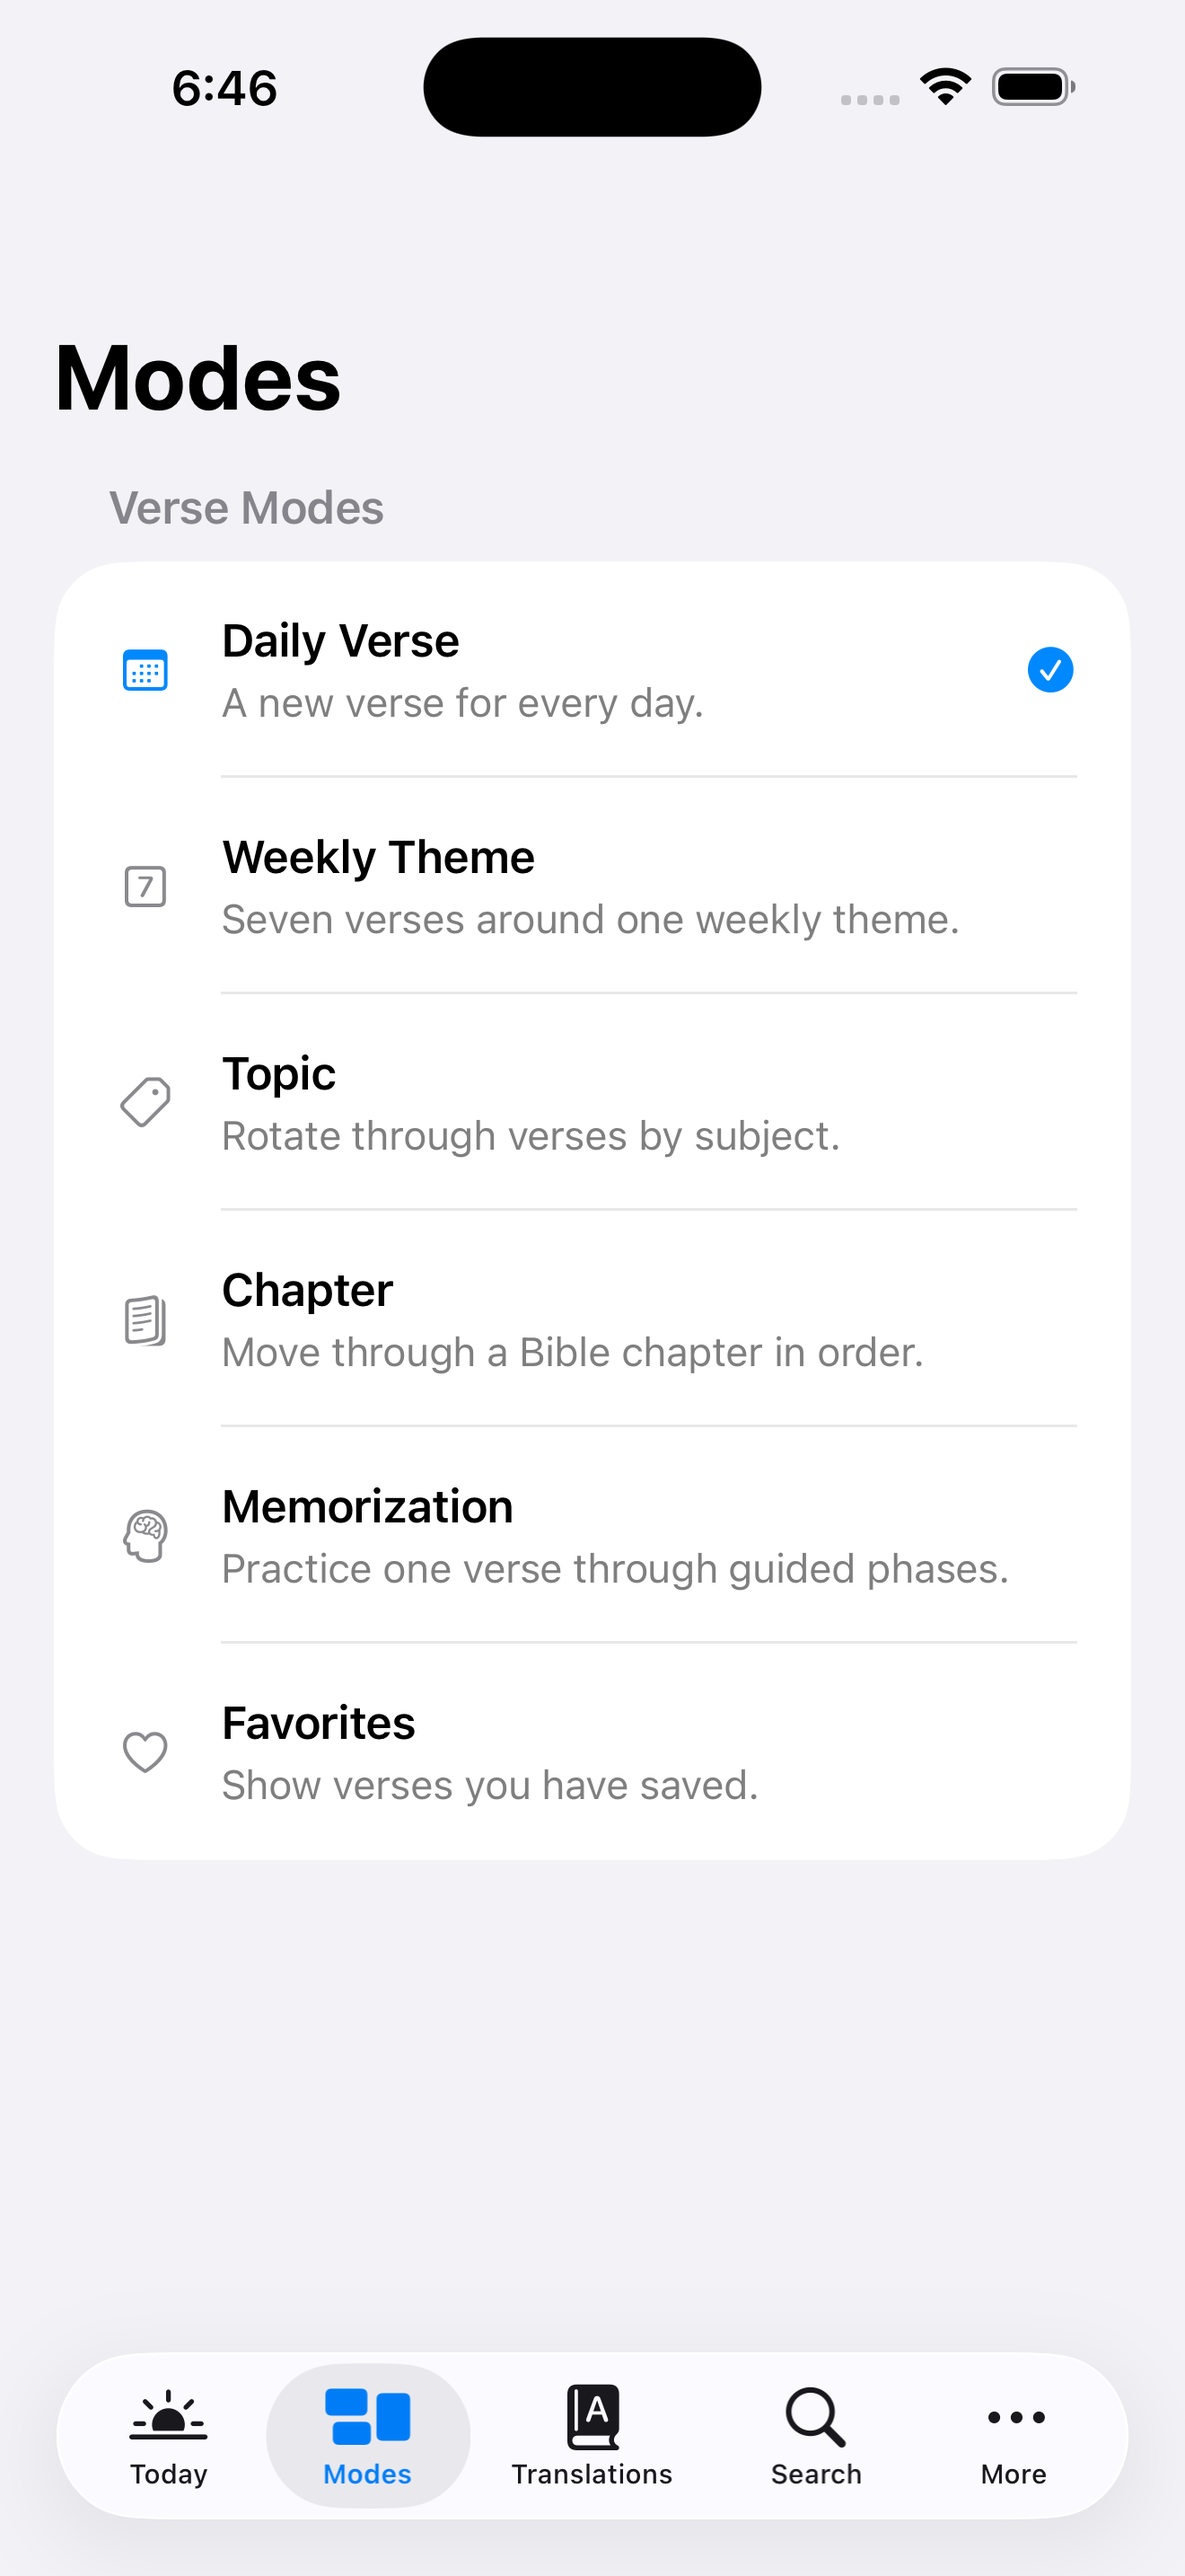
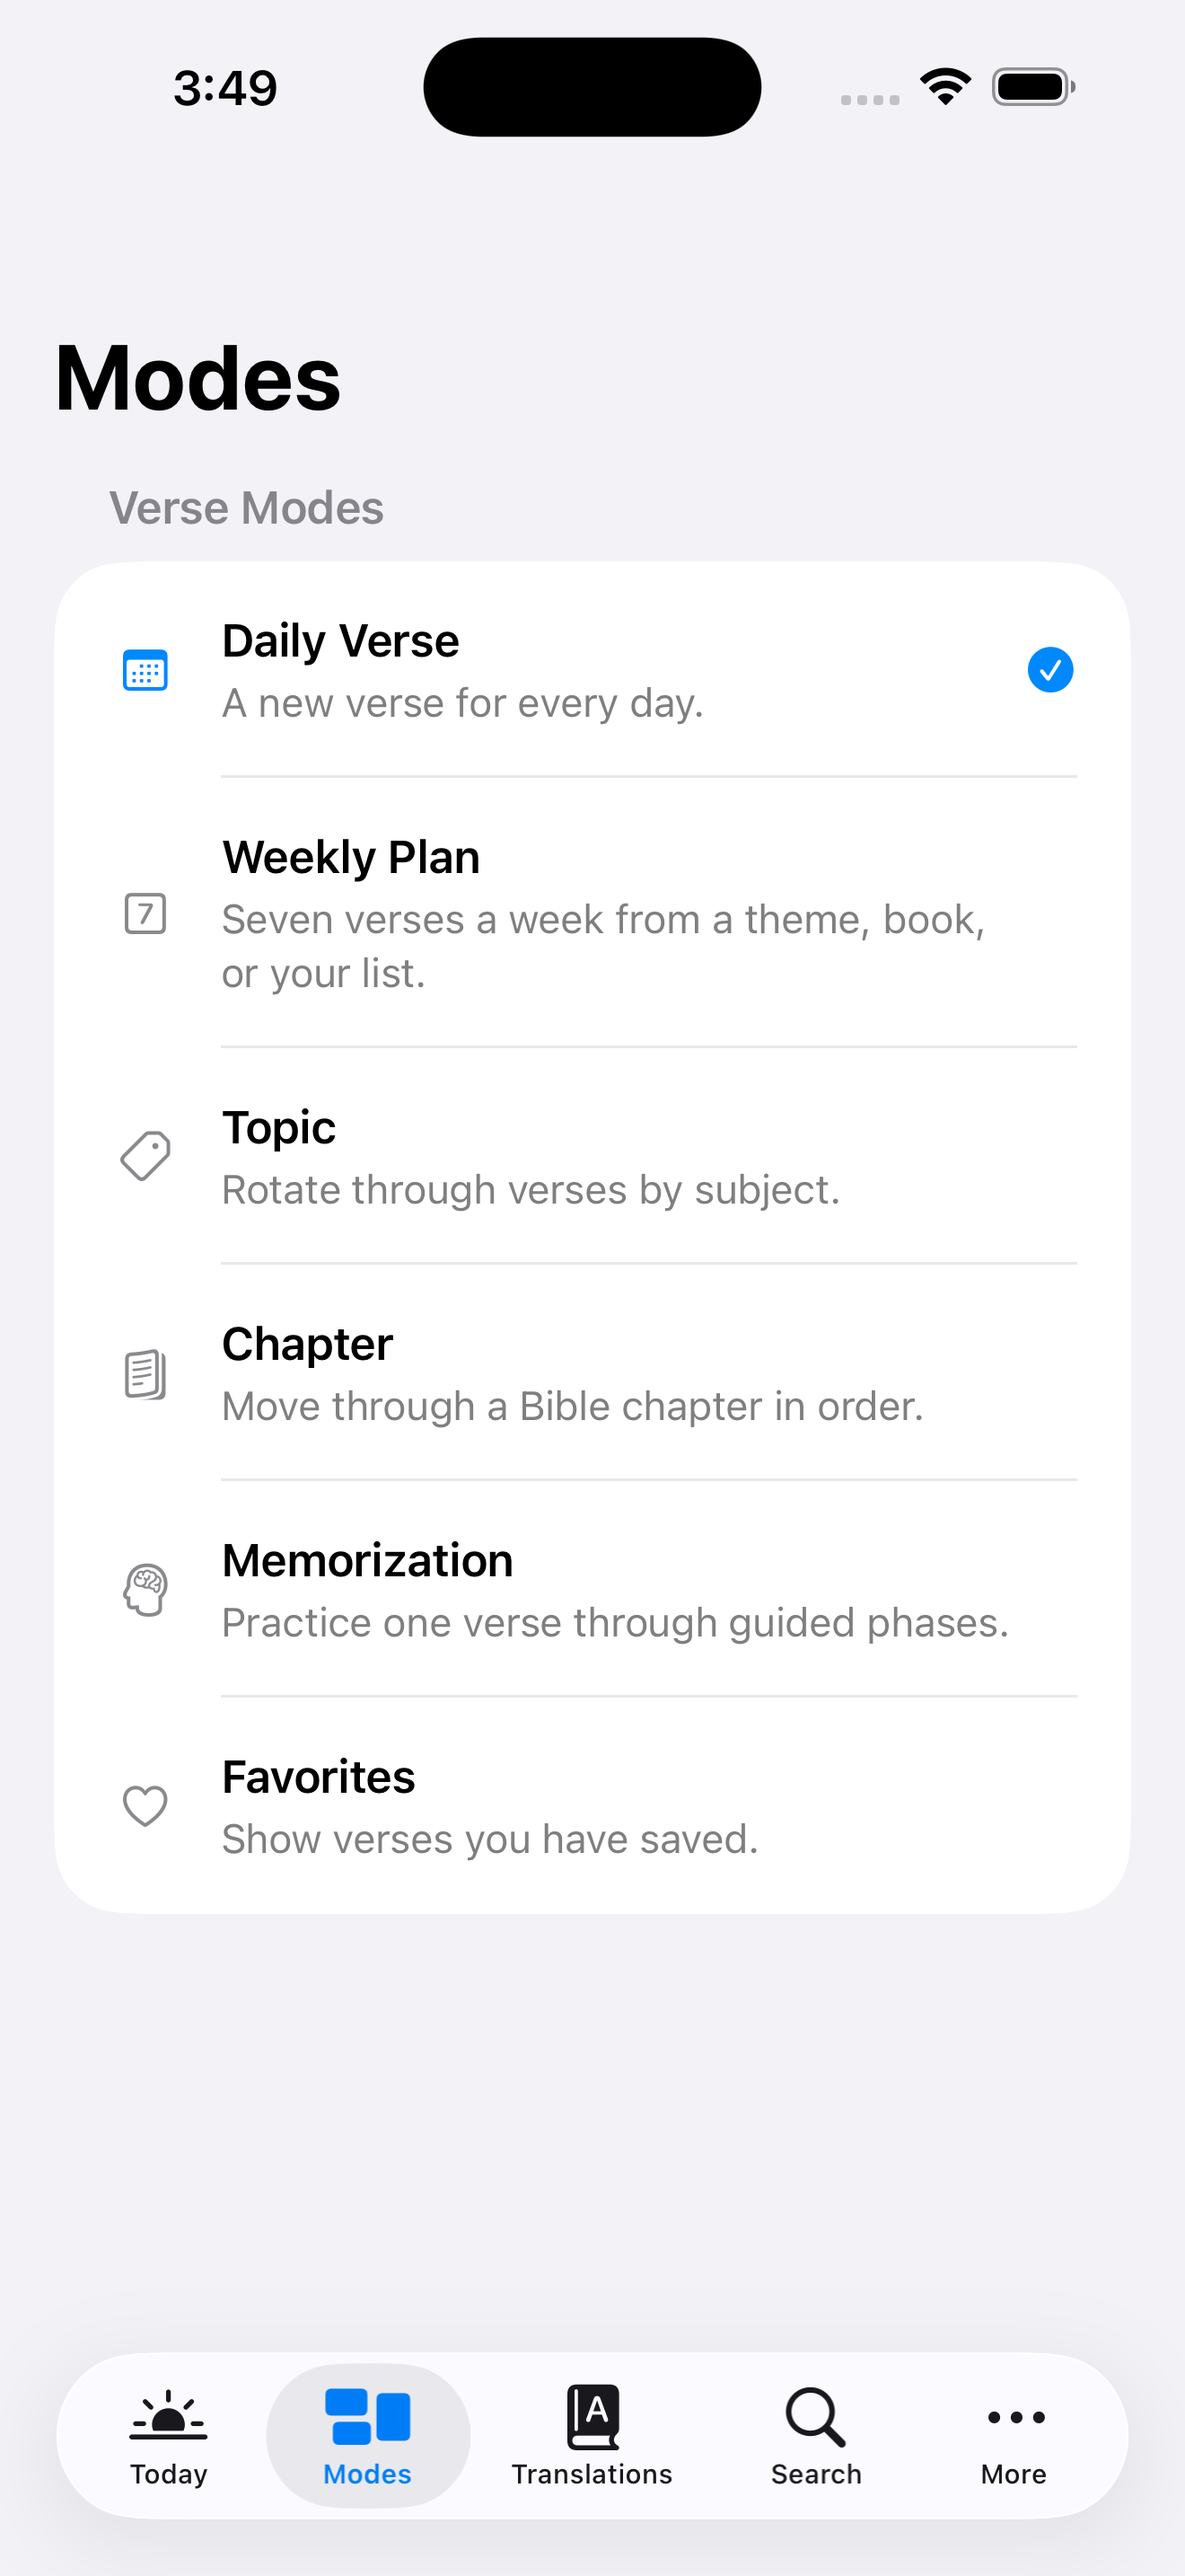
docs: describe ESV and Recovery Version storage and Weekly Plan
The privacy policy (dated September 14, 2026), the support and home pages, and
the listing now say ESV keeps up to 500 downloaded verses and downloads at most
every 48 hours, the Recovery Version is never stored, and Weekly Theme is now
Weekly Plan. Retook the 6.9-inch screenshots that showed the old mode name and
Recovery Version label.

diff --git a/docs/support.html b/docs/support.html
@@ -153,10 +153,11 @@
     <h1>Support</h1>
     <p class="intro">
       Word Unlocked puts a Bible verse on your iPhone Lock Screen. Pick a mode &mdash;
-      Daily Verse, Weekly Theme, Topic, Chapter, Memorization, or Favorites &mdash; and a
+      Daily Verse, Weekly Plan, Topic, Chapter, Memorization, or Favorites &mdash; and a
       translation, and the widget keeps your Lock Screen updated with scripture. Five
       translations (KJV, WEB, BSB, ASV, LSV) work fully offline; the English Standard
-      Version and the Recovery Version fetch live and then cache on your device.
+      Version downloads the verses you&rsquo;ll see next, and the Recovery Version loads
+      while you read.
     </p>
 
     <section>
@@ -169,17 +170,17 @@
 
       <details>
         <summary>Why isn't my verse updating?</summary>
-        <p>iOS manages exactly when widgets refresh to save battery, so updates aren't always instant. First check Settings in the app to confirm you're in the mode and translation you expect &mdash; modes like Daily Verse, Topic, and Chapter each have their own update or rotation interval. If the English Standard Version or the Recovery Version is selected, a new verse also requires a network connection the first time it&rsquo;s fetched.</p>
+        <p>iOS manages exactly when widgets refresh to save battery, so updates aren't always instant. First check Settings in the app to confirm you're in the mode and translation you expect &mdash; modes like Daily Verse, Topic, and Chapter each have their own update or rotation interval. If the English Standard Version is selected, new verses download at most once every 48 hours, and a verse that hasn&rsquo;t downloaded yet shows in the King James Version. The Recovery Version can&rsquo;t be stored on your device, so while it&rsquo;s selected the widget shows the King James Version.</p>
       </details>
 
       <details>
         <summary>How do I switch translations?</summary>
-        <p>Open the app and go to Settings, then use the Default Translation picker (or the Translations tab to browse all available translations). KJV, WEB, BSB, ASV, and LSV are available immediately since they're bundled offline. Selecting the English Standard Version or the Recovery Version fetches that verse live the first time, then caches it locally.</p>
+        <p>Open the app and go to Settings, then use the Default Translation picker (or the Translations tab to browse all available translations). KJV, WEB, BSB, ASV, and LSV are available immediately since they're bundled offline. Selecting the English Standard Version downloads the verses your mode shows next; the Recovery Version loads each verse while you read.</p>
       </details>
 
       <details>
         <summary>How does offline mode work?</summary>
-        <p>King James Version, World English Bible, Berean Standard Bible, American Standard Version, and Literal Standard Version are bundled inside the app itself, so no network request is ever made when one of them is selected. The English Standard Version and the Recovery Version are the only translations that need a connection, and only at the moment you select one or move to a verse that isn&rsquo;t already cached.</p>
+        <p>King James Version, World English Bible, Berean Standard Bible, American Standard Version, and Literal Standard Version are bundled inside the app itself, so no network request is ever made when one of them is selected. The English Standard Version keeps up to 500 downloaded verses on your device and needs a connection only to download more, at most once every 48 hours. The Recovery Version needs a connection whenever you read it, because its text is never stored on your device.</p>
       </details>
     </section>
 

diff --git a/docs/privacy.html b/docs/privacy.html
@@ -147,7 +147,7 @@
 <main>
   <div class="wrap">
     <h1>Privacy Policy</h1>
-    <p class="updated">Last updated: September 12, 2026</p>
+    <p class="updated">Last updated: September 14, 2026</p>
 
     <div class="summary">
       <p>Word Unlocked at a glance:</p>
@@ -177,15 +177,15 @@
       <p>King James Version (KJV), World English Bible (WEB), Berean Standard Bible (BSB), American Standard Version (ASV), and Literal Standard Version (LSV) are bundled with the app and stored entirely on your device. No network request is ever made when one of these translations is selected.</p>
 
       <h3>English Standard Version (ESV)</h3>
-      <p>When the English Standard Version is selected, verses are fetched live from <code>api.esv.org</code>, operated by Crossway, as you read. Up to 500 recently viewed verses are cached locally on your device so they stay available offline &mdash; nothing is sent to any server operated by this app.</p>
+      <p>When the English Standard Version is selected, the app downloads the verses your chosen mode will show next from <code>api.esv.org</code>, operated by Crossway, at most once every 48 hours. Up to 500 of them are kept on your device so the Lock Screen widget works offline; Crossway's terms allow no more than that, or half of any book. Requests contain only verse references &mdash; nothing is sent to any server operated by this app.</p>
 
       <h3>Recovery Version (RV)</h3>
-      <p>When the Recovery Version is selected, a live request is made to <code>api.lsm.org</code>, operated by Living Stream Ministry, to fetch the current verse. Only the single most recently fetched verse is cached, locally on your device &mdash; nothing is sent to any server operated by this app.</p>
+      <p>When the Recovery Version is selected, the verse you are reading is requested from <code>api.lsm.org</code>, operated by Living Stream Ministry. Its text is held in memory while you read and is never stored on your device, as Living Stream Ministry's terms require, so the Lock Screen widget shows the King James Version instead. Requests contain only the verse reference &mdash; nothing is sent to any server operated by this app.</p>
     </section>
 
     <section>
       <h2>Local Storage</h2>
-      <p>Your settings, favorites, memorization progress, and the most recently loaded verse(s) are stored locally in an App Group container (<code>group.com.rippre.wordunlocked</code>), shared only between Word Unlocked and its Lock Screen widget on the same device. This data is never uploaded or shared externally.</p>
+      <p>Your settings, favorites, memorization progress, and downloaded English Standard Version verses are stored locally in an App Group container (<code>group.com.rippre.wordunlocked</code>), shared only between Word Unlocked and its Lock Screen widget on the same device. This data is never uploaded or shared externally.</p>
     </section>
 
     <section>

diff --git a/docs/index.html b/docs/index.html
@@ -160,7 +160,7 @@
     <p class="tagline">Put scripture on your Lock Screen. Offline and private.</p>
     <p class="body-copy">
       Word Unlocked shows a Bible verse on your iPhone Lock Screen. Choose from Daily
-      Verse, Weekly Theme, Topic, Chapter, Memorization, or Favorites modes, and pick a
+      Verse, Weekly Plan, Topic, Chapter, Memorization, or Favorites modes, and pick a
       translation &mdash; five of them work fully offline, with no account, no ads, no
       tracking, and no analytics.
     </p>
@@ -176,7 +176,7 @@
       </div>
       <div class="card">
         <h2>Two optional live translations</h2>
-        <p>The English Standard Version and the Recovery Version are fetched live when you select them, then cached on your device.</p>
+        <p>The English Standard Version keeps up to 500 downloaded verses on your device for the Lock Screen; the Recovery Version loads while you read.</p>
       </div>
       <div class="card">
         <h2>Built for the Lock Screen</h2>

diff --git a/marketing/app-store-listing.md b/marketing/app-store-listing.md
@@ -52,7 +52,7 @@ No account. No sign-up. No internet required. Just Scripture.
 
 WHY YOU'LL LOVE IT
 • Lock Screen & Home Screen widgets — a verse you see without opening anything
-• A fresh verse every day, or rotate by topic, weekly theme, or chapter
+• A fresh verse every day, or rotate by topic, weekly plan, or chapter
 • Seven translations — five completely offline, two live
 • KJV and WEB are built in and work 100% offline, no signal needed
 • Private by design — no accounts, no tracking, no ads
@@ -67,18 +67,18 @@ Read in the voice that fits you, and switch anytime:
 • American Standard Version (ASV) — 31,086 verses
 • Literal Standard Version (LSV) — 31,104 verses, word-for-word
 
-**Live (fetch from the web when you choose)**
+**Live (from the web when you choose)**
 • English Standard Version (ESV) — © Crossway, used by permission
-• Recovery Version (RV) — © Living Stream Ministry, used by permission
-ESV keeps up to 500 of your recently read verses available offline; the Recovery
-Version keeps your most recent verse on hand for the widget.
+• Recovery Version (RV) — © Living Stream Ministry
+ESV keeps up to 500 of the verses you'll see next on your phone, so the widget works
+offline. The Recovery Version loads while you read and isn't stored on your phone.
 
 VERSES THAT MEET THE MOMENT
 Pick the rhythm that fits your walk:
 • Daily Verse — a new passage each day
 • Topics — go straight to anxiety, fear, strength, faith, hope, peace,
   forgiveness, grief, patience, gratitude, and more
-• Weekly Theme — sit with one theme all week
+• Weekly Plan — seven verses a week from a theme, chapter, book, or your own list
 • Chapter — walk through a book, verse by verse
 • Memorization — focus on the verses you're committing to heart
 • Favorites — save the ones that stay with you
@@ -124,7 +124,7 @@ Welcome to Word Unlocked! Keep Scripture on your Lock Screen, all day.
 • Lock Screen and Home Screen widgets
 • Seven translations: five fully offline (KJV, WEB, BSB, ASV, LSV) plus ESV and the
   Recovery Version via live fetch
-• Rotate verses by day, topic, weekly theme, or chapter
+• Rotate verses by day, topic, weekly plan, or chapter
 • Memorization mode and Favorites
 • Set as Wallpaper
 • No account, no tracking — KJV and WEB work completely offline
@@ -154,6 +154,11 @@ Welcome to Word Unlocked! Keep Scripture on your Lock Screen, all day.
   a live translation's key is missing.
 - AS OF 2026-09-12: `LSM_APP_ID`, `LSM_TOKEN` and `ESV_API_KEY` are all set; the ESV
   key was verified with a live request to api.esv.org. All seven translations ship.
+- Licensing limits the app enforces (verified against both providers' terms 2026-09-14):
+  ESV keeps at most 500 verses on a device and never more than half of any book, and each
+  install downloads at most once every 48 hours (the key allows 5,000 requests a day).
+  LSM forbids storing any Recovery Version text, so RV is held in memory while reading,
+  shows LSM's attribution beside the verse, and the widget and wallpapers use KJV.
 
 **Future additions (not in v1.0):**
 - NIV, NKJV, NLT: These require per-publisher approval on the YouVersion Platform
